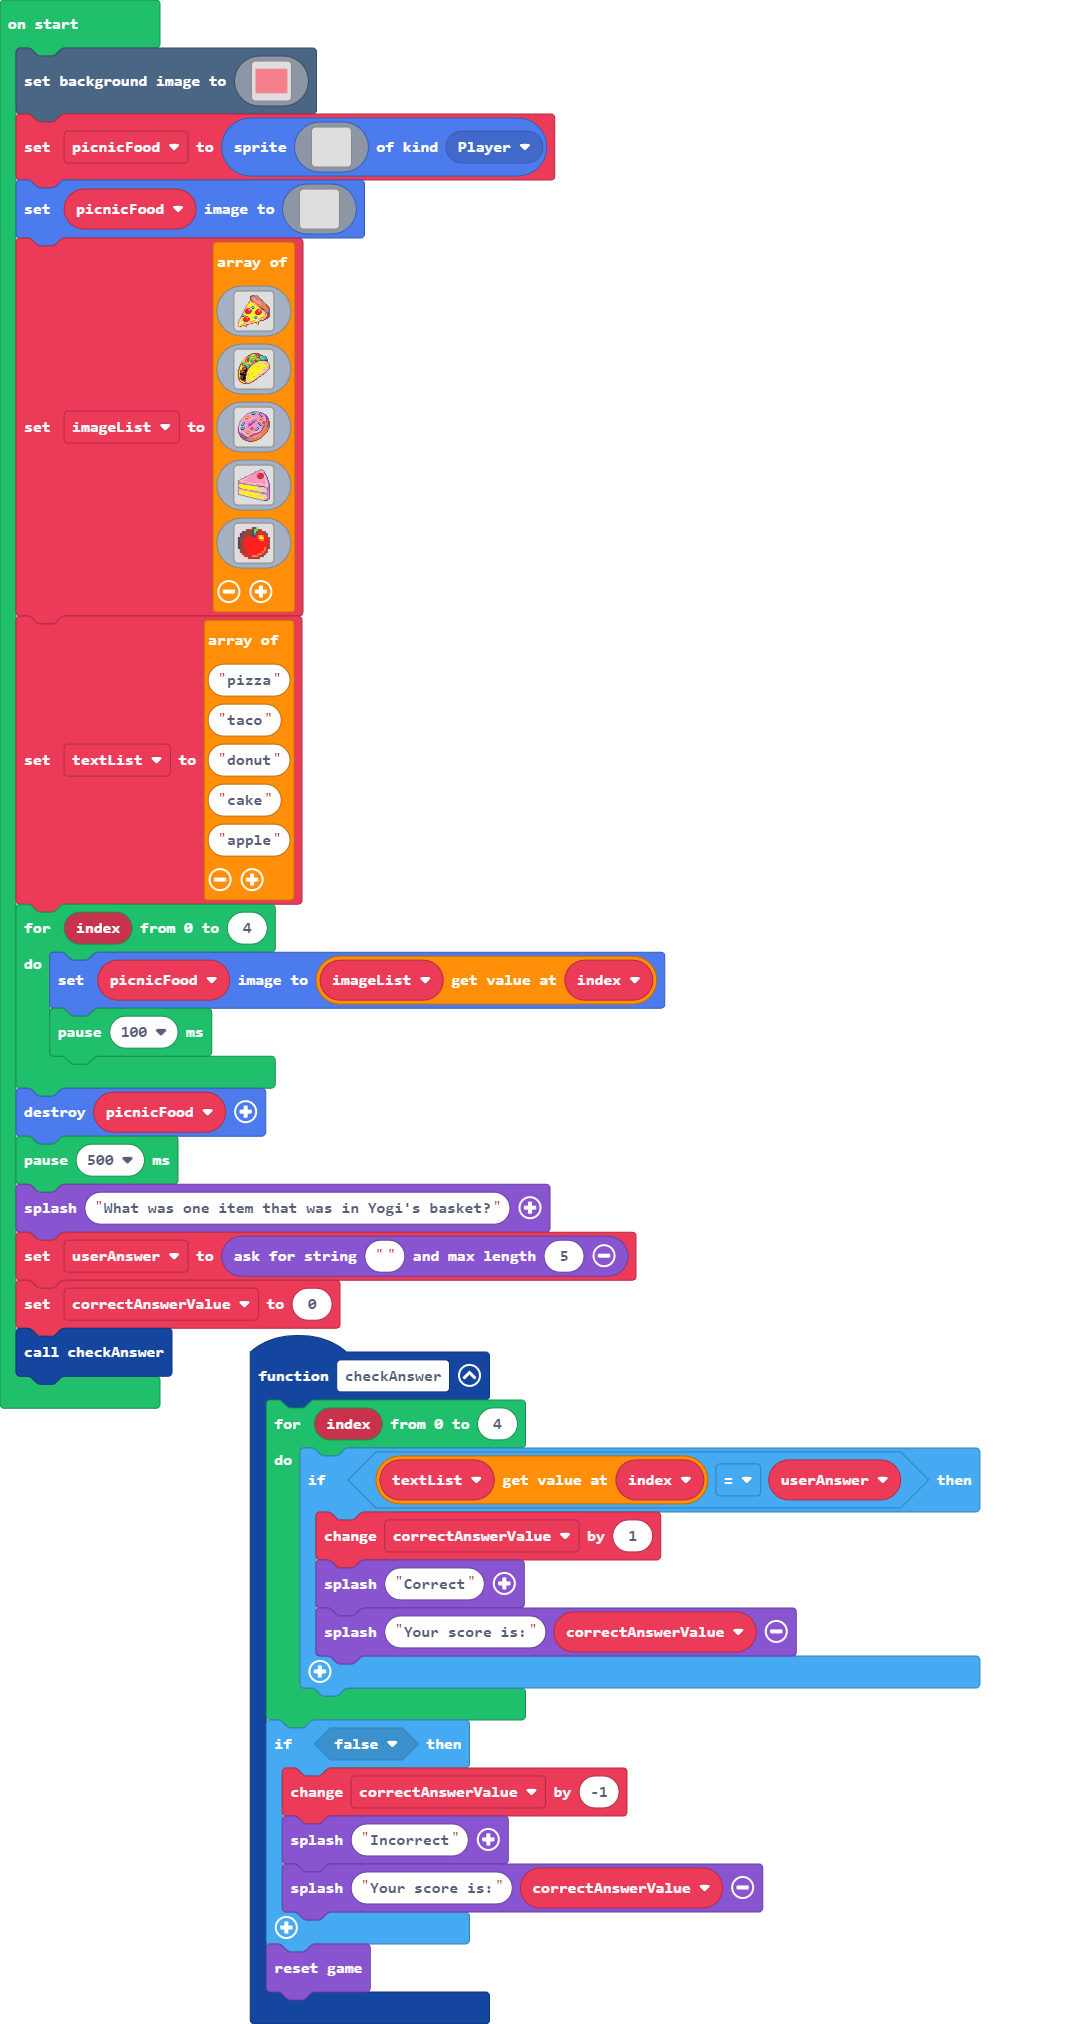
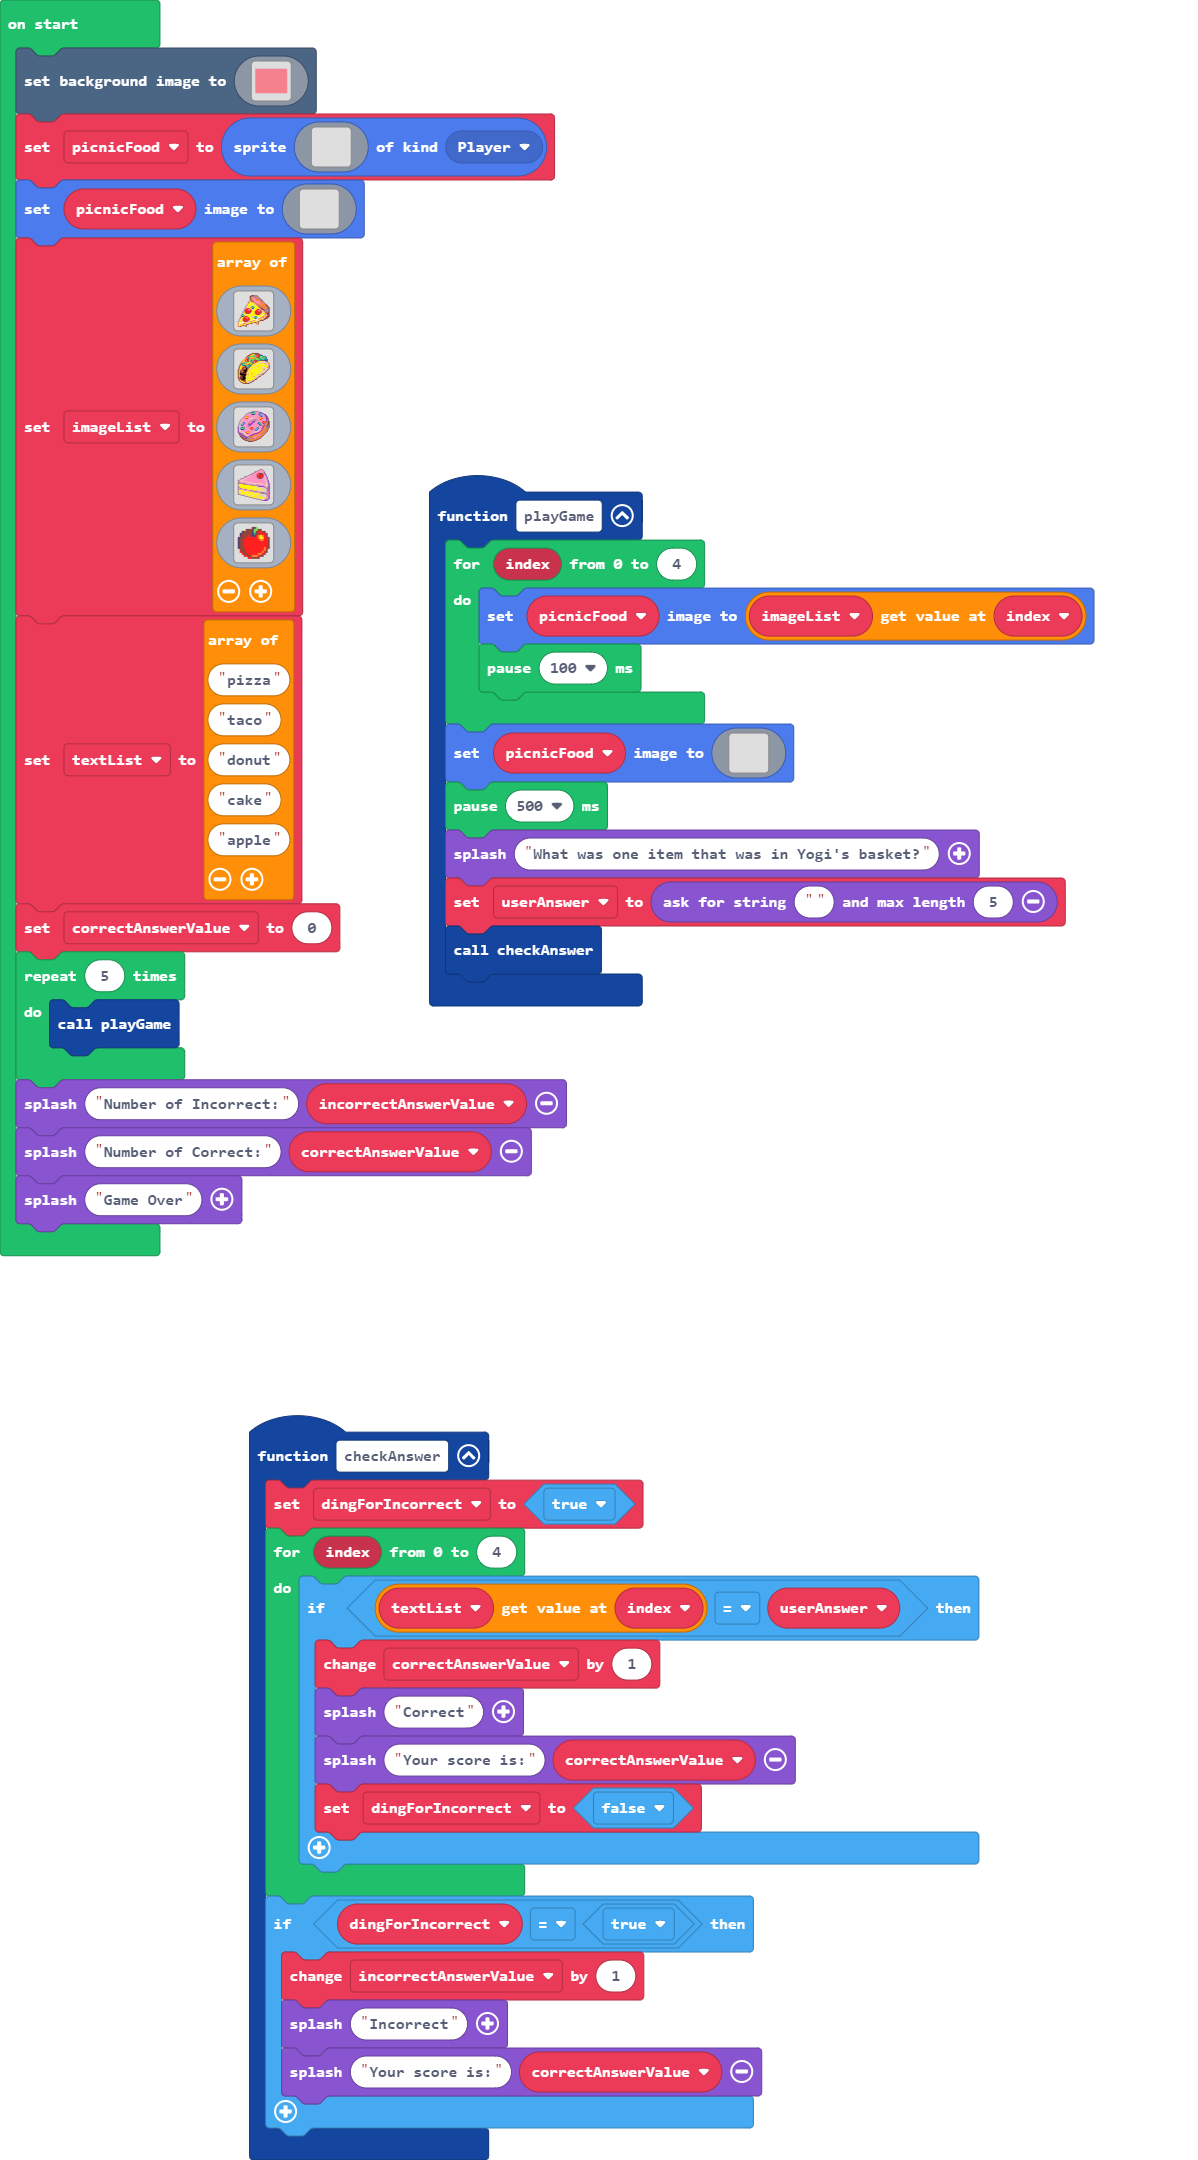
Update main.blocks, main.ts

diff --git a/main.ts b/main.ts
@@ -1,21 +1,54 @@
 function checkAnswer () {
+    dingForIncorrect = true
     for (let index = 0; index <= 4; index++) {
         if (textList[index] == userAnswer) {
             correctAnswerValue += 1
             game.splash("Correct")
             game.splash("Your score is:", correctAnswerValue)
+            dingForIncorrect = false
         }
     }
-    if (false) {
-        correctAnswerValue += -1
+    if (dingForIncorrect == true) {
+        incorrectAnswerValue += 1
         game.splash("Incorrect")
         game.splash("Your score is:", correctAnswerValue)
     }
-    game.reset()
 }
-let correctAnswerValue = 0
+function playGame () {
+    for (let index = 0; index <= 4; index++) {
+        picnicFood.setImage(imageList[index])
+        pause(100)
+    }
+    picnicFood.setImage(img`
+        . . . . . . . . . . . . . . . . 
+        . . . . . . . . . . . . . . . . 
+        . . . . . . . . . . . . . . . . 
+        . . . . . . . . . . . . . . . . 
+        . . . . . . . . . . . . . . . . 
+        . . . . . . . . . . . . . . . . 
+        . . . . . . . . . . . . . . . . 
+        . . . . . . . . . . . . . . . . 
+        . . . . . . . . . . . . . . . . 
+        . . . . . . . . . . . . . . . . 
+        . . . . . . . . . . . . . . . . 
+        . . . . . . . . . . . . . . . . 
+        . . . . . . . . . . . . . . . . 
+        . . . . . . . . . . . . . . . . 
+        . . . . . . . . . . . . . . . . 
+        . . . . . . . . . . . . . . . . 
+        `)
+    pause(500)
+    game.splash("What was one item that was in Yogi's basket?")
+    userAnswer = game.askForString("", 5)
+    checkAnswer()
+}
 let userAnswer = ""
+let dingForIncorrect = false
+let incorrectAnswerValue = 0
+let correctAnswerValue = 0
 let textList: string[] = []
+let imageList: Image[] = []
+let picnicFood: Sprite = null
 scene.setBackgroundImage(img`
     2222233333222223333322222333332222233333222223333322222333332222233333222223333322222333332222233333222223333322222333332222233333222223333322222333332222233333
     2222233333222223333322222333332222233333222223333322222333332222233333222223333322222333332222233333222223333322222333332222233333222223333322222333332222233333
@@ -138,7 +171,7 @@ scene.setBackgroundImage(img`
     3333322222333332222233333222223333322222333332222233333222223333322222333332222233333222223333322222333332222233333222223333322222333332222233333222223333322222
     3333322222333332222233333222223333322222333332222233333222223333322222333332222233333222223333322222333332222233333222223333322222333332222233333222223333322222
     `)
-let picnicFood = sprites.create(img`
+picnicFood = sprites.create(img`
     . . . . . . . . . . . . . . . . 
     . . . . . . . . . . . . . . . . 
     . . . . . . . . . . . . . . . . 
@@ -174,7 +207,7 @@ picnicFood.setImage(img`
     . . . . . . . . . . . . . . . . 
     . . . . . . . . . . . . . . . . 
     `)
-let imageList = [
+imageList = [
 img`
     .............beebbbb............
     ............eebbbb4bb...........
@@ -337,13 +370,10 @@ textList = [
 "cake",
 "apple"
 ]
-for (let index = 0; index <= 4; index++) {
-    picnicFood.setImage(imageList[index])
-    pause(100)
-}
-picnicFood.destroy()
-pause(500)
-game.splash("What was one item that was in Yogi's basket?")
-userAnswer = game.askForString("", 5)
 correctAnswerValue = 0
-checkAnswer()
+for (let index = 0; index < 5; index++) {
+    playGame()
+}
+game.splash("Number of Incorrect:", incorrectAnswerValue)
+game.splash("Number of Correct:", correctAnswerValue)
+game.splash("Game Over")
